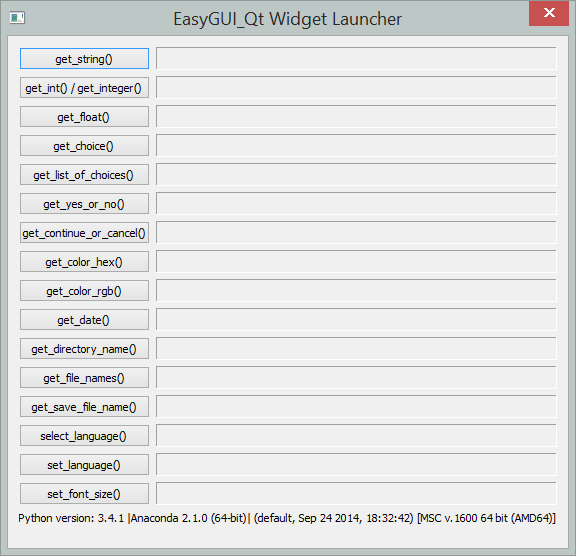
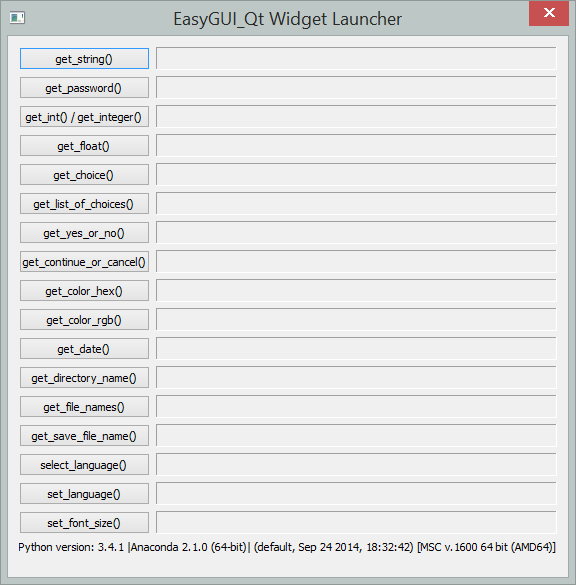
added get password

Changed region(s): [[0.0312, 0.0, 0.9688, 0.9478], [0.0, 0.0, 0.0312, 0.0306]]

diff --git a/easygui_qt/easygui_qt.py b/easygui_qt/easygui_qt.py
@@ -24,6 +24,7 @@ __all__ = [
     'get_int',
     'get_integer',
     'get_string',
+    'get_password',
     'get_yes_or_no',
     'get_continue_or_cancel',
     'get_color_hex',
@@ -600,6 +601,30 @@ def get_string(message="Enter your response", title="Title",
     text, ok = QtGui.QInputDialog.getText(None, title, message,
                                           QtGui.QLineEdit.Normal,
                                           default_response, flags)
+    if ok:
+        if sys.version_info < (3,):
+            return unicode(text)
+        return text
+
+@with_app
+def get_password(message="Enter your password", title="Title", app=None):
+    """Simple password input box.  Used to query the user and get a string back.
+
+       :param message: Message displayed to the user, inviting a response
+       :param title: Window title
+
+
+       :return: a string, or ``None`` if "cancel" is clicked or window
+                is closed.
+
+       >>> import easygui_qt as easy
+       >>> password = easy.get_password()
+
+       .. image:: ../docs/images/get_password.png
+    """
+    flags = QtCore.Qt.WindowSystemMenuHint | QtCore.Qt.WindowTitleHint
+    text, ok = QtGui.QInputDialog.getText(None, title, message,
+                                          QtGui.QLineEdit.Password,'', flags)
     if ok:
         if sys.version_info < (3,):
             return unicode(text)

diff --git a/easygui_qt/demos/launcher.py b/easygui_qt/demos/launcher.py
@@ -53,6 +53,13 @@ class Dialog(QtGui.QDialog):
         layout.addWidget(self.get_string_button, n, 0)
         layout.addWidget(self.get_string_label, n, 1)
         n += 1
+        self.get_password_button = QtGui.QPushButton("get_password()")
+        self.get_password_button.clicked.connect(self.get_password)
+        self.get_password_label = QtGui.QLabel()
+        self.get_password_label.setFrameStyle(frameStyle)
+        layout.addWidget(self.get_password_button, n, 0)
+        layout.addWidget(self.get_password_label, n, 1)
+        n += 1
         self.get_int_button = QtGui.QPushButton("get_int() / get_integer()")
         self.get_int_button.clicked.connect(self.get_int)
         self.get_int_label = QtGui.QLabel()
@@ -179,6 +186,12 @@ class Dialog(QtGui.QDialog):
         if sys.version_info < (3,):
             output = output.encode(encoding=locale.getdefaultlocale()[1])
         self.get_string_label.setText("{}".format(output))
+
+    def get_password(self):
+        output = launch('get_password')
+        if sys.version_info < (3,):
+            output = output.encode(encoding=locale.getdefaultlocale()[1])
+        self.get_password_label.setText("{}".format(output))
 
     def get_int(self):
         output = launch('get_int')

diff --git a/HISTORY.rst b/HISTORY.rst
@@ -3,6 +3,7 @@
 History
 =======
 
+- added get_password
 - added get_date
 - added get_color_hex
 - added get_color_rgb
